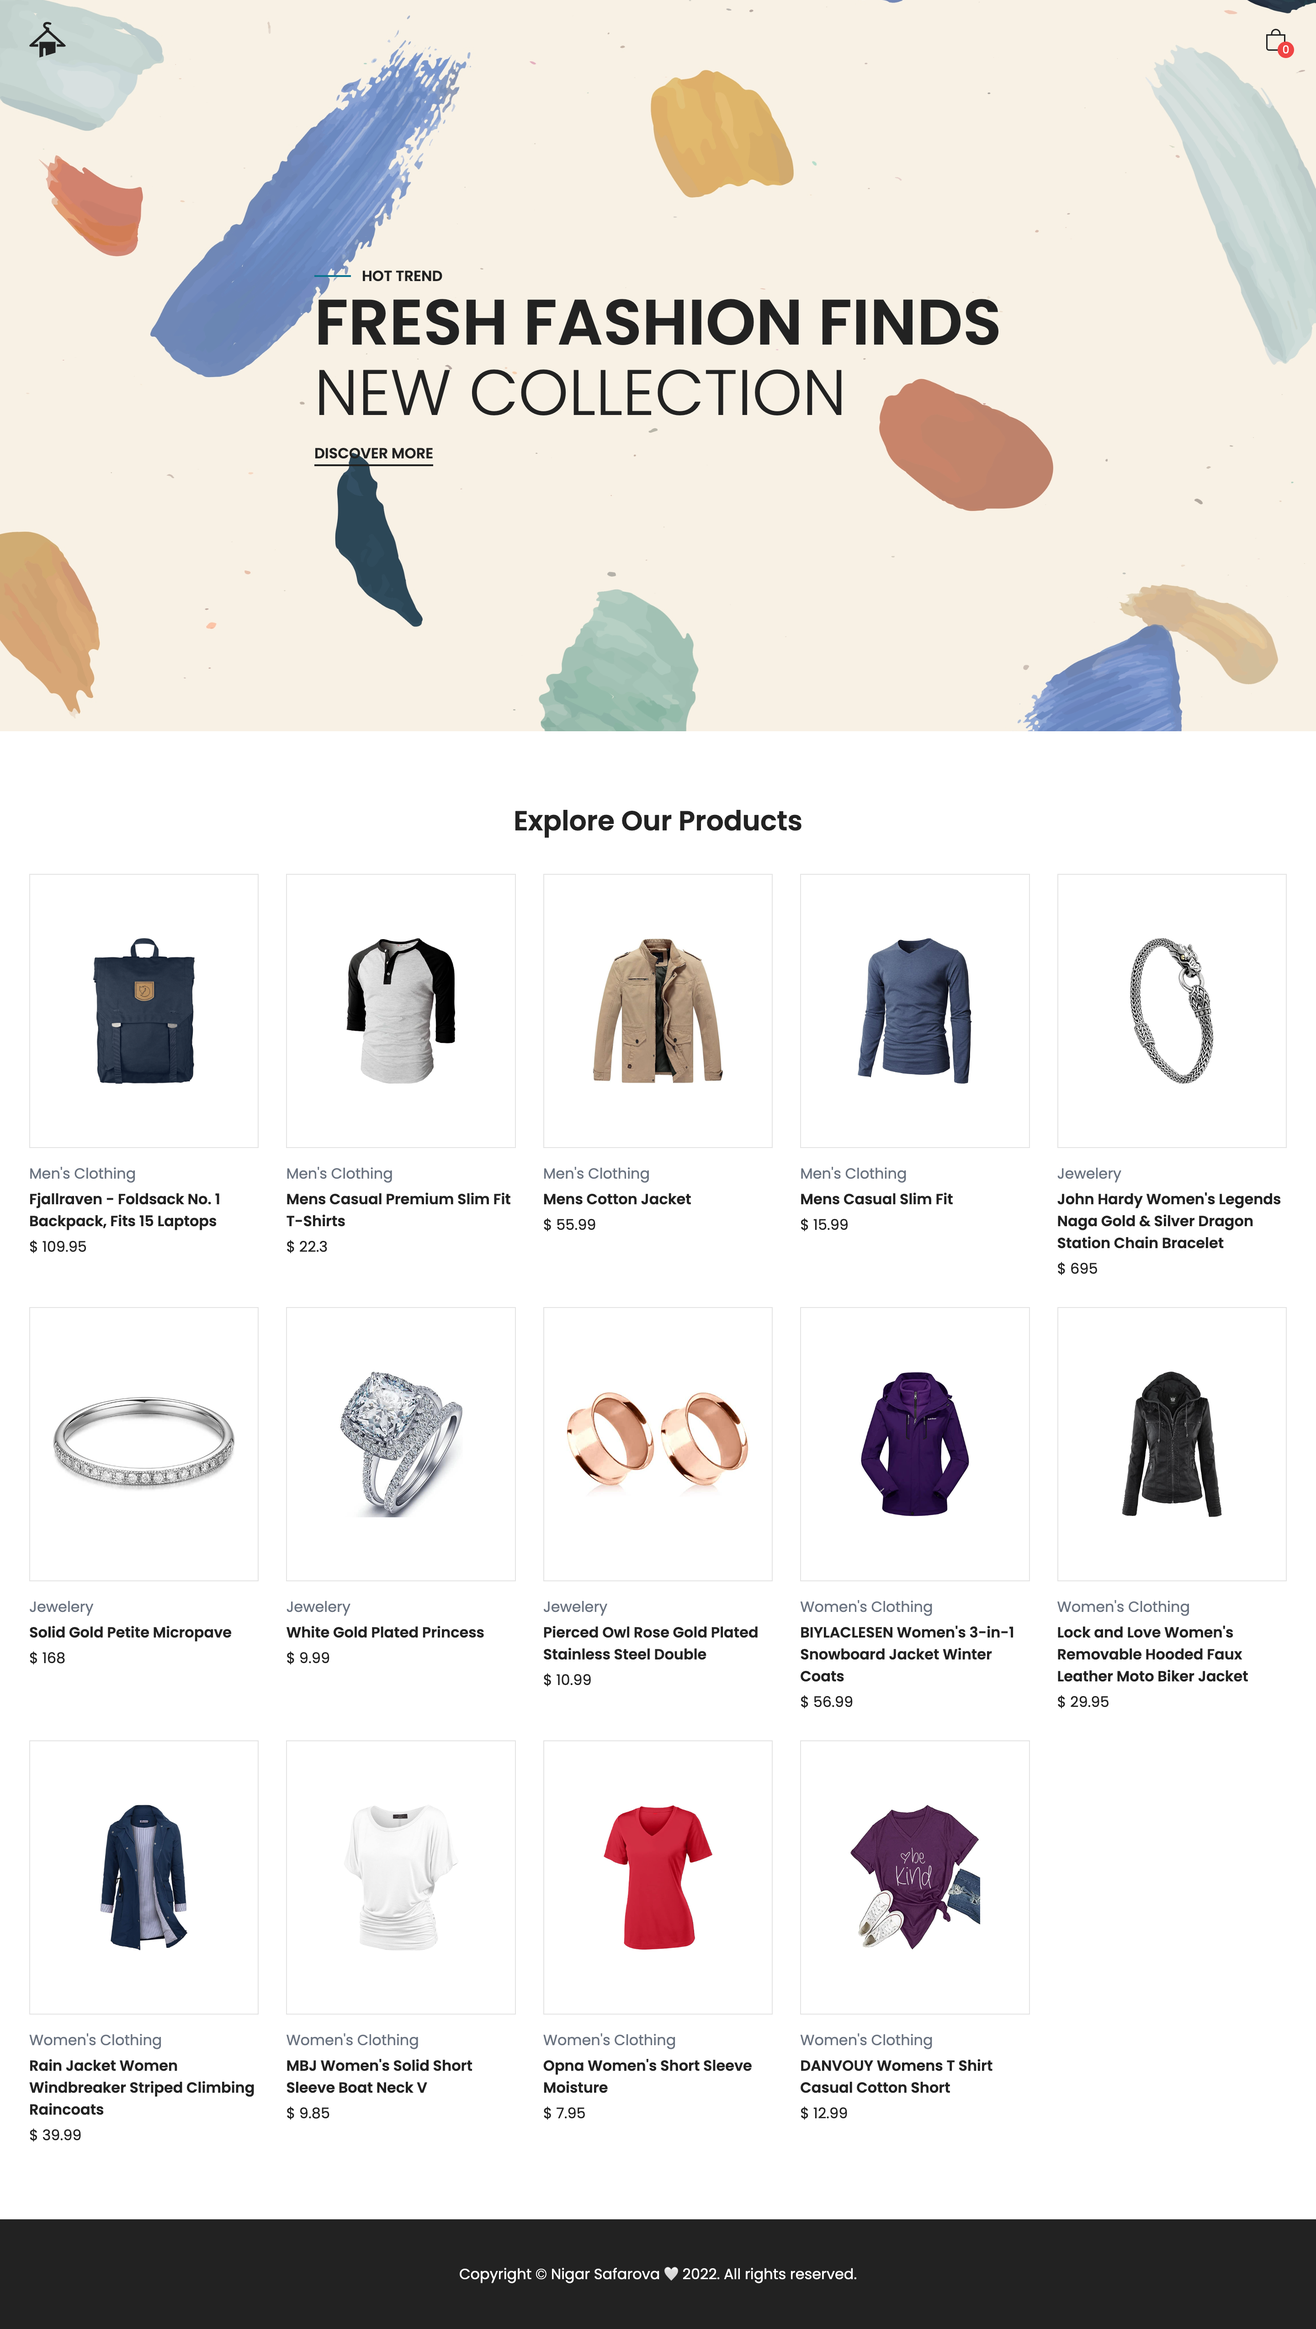
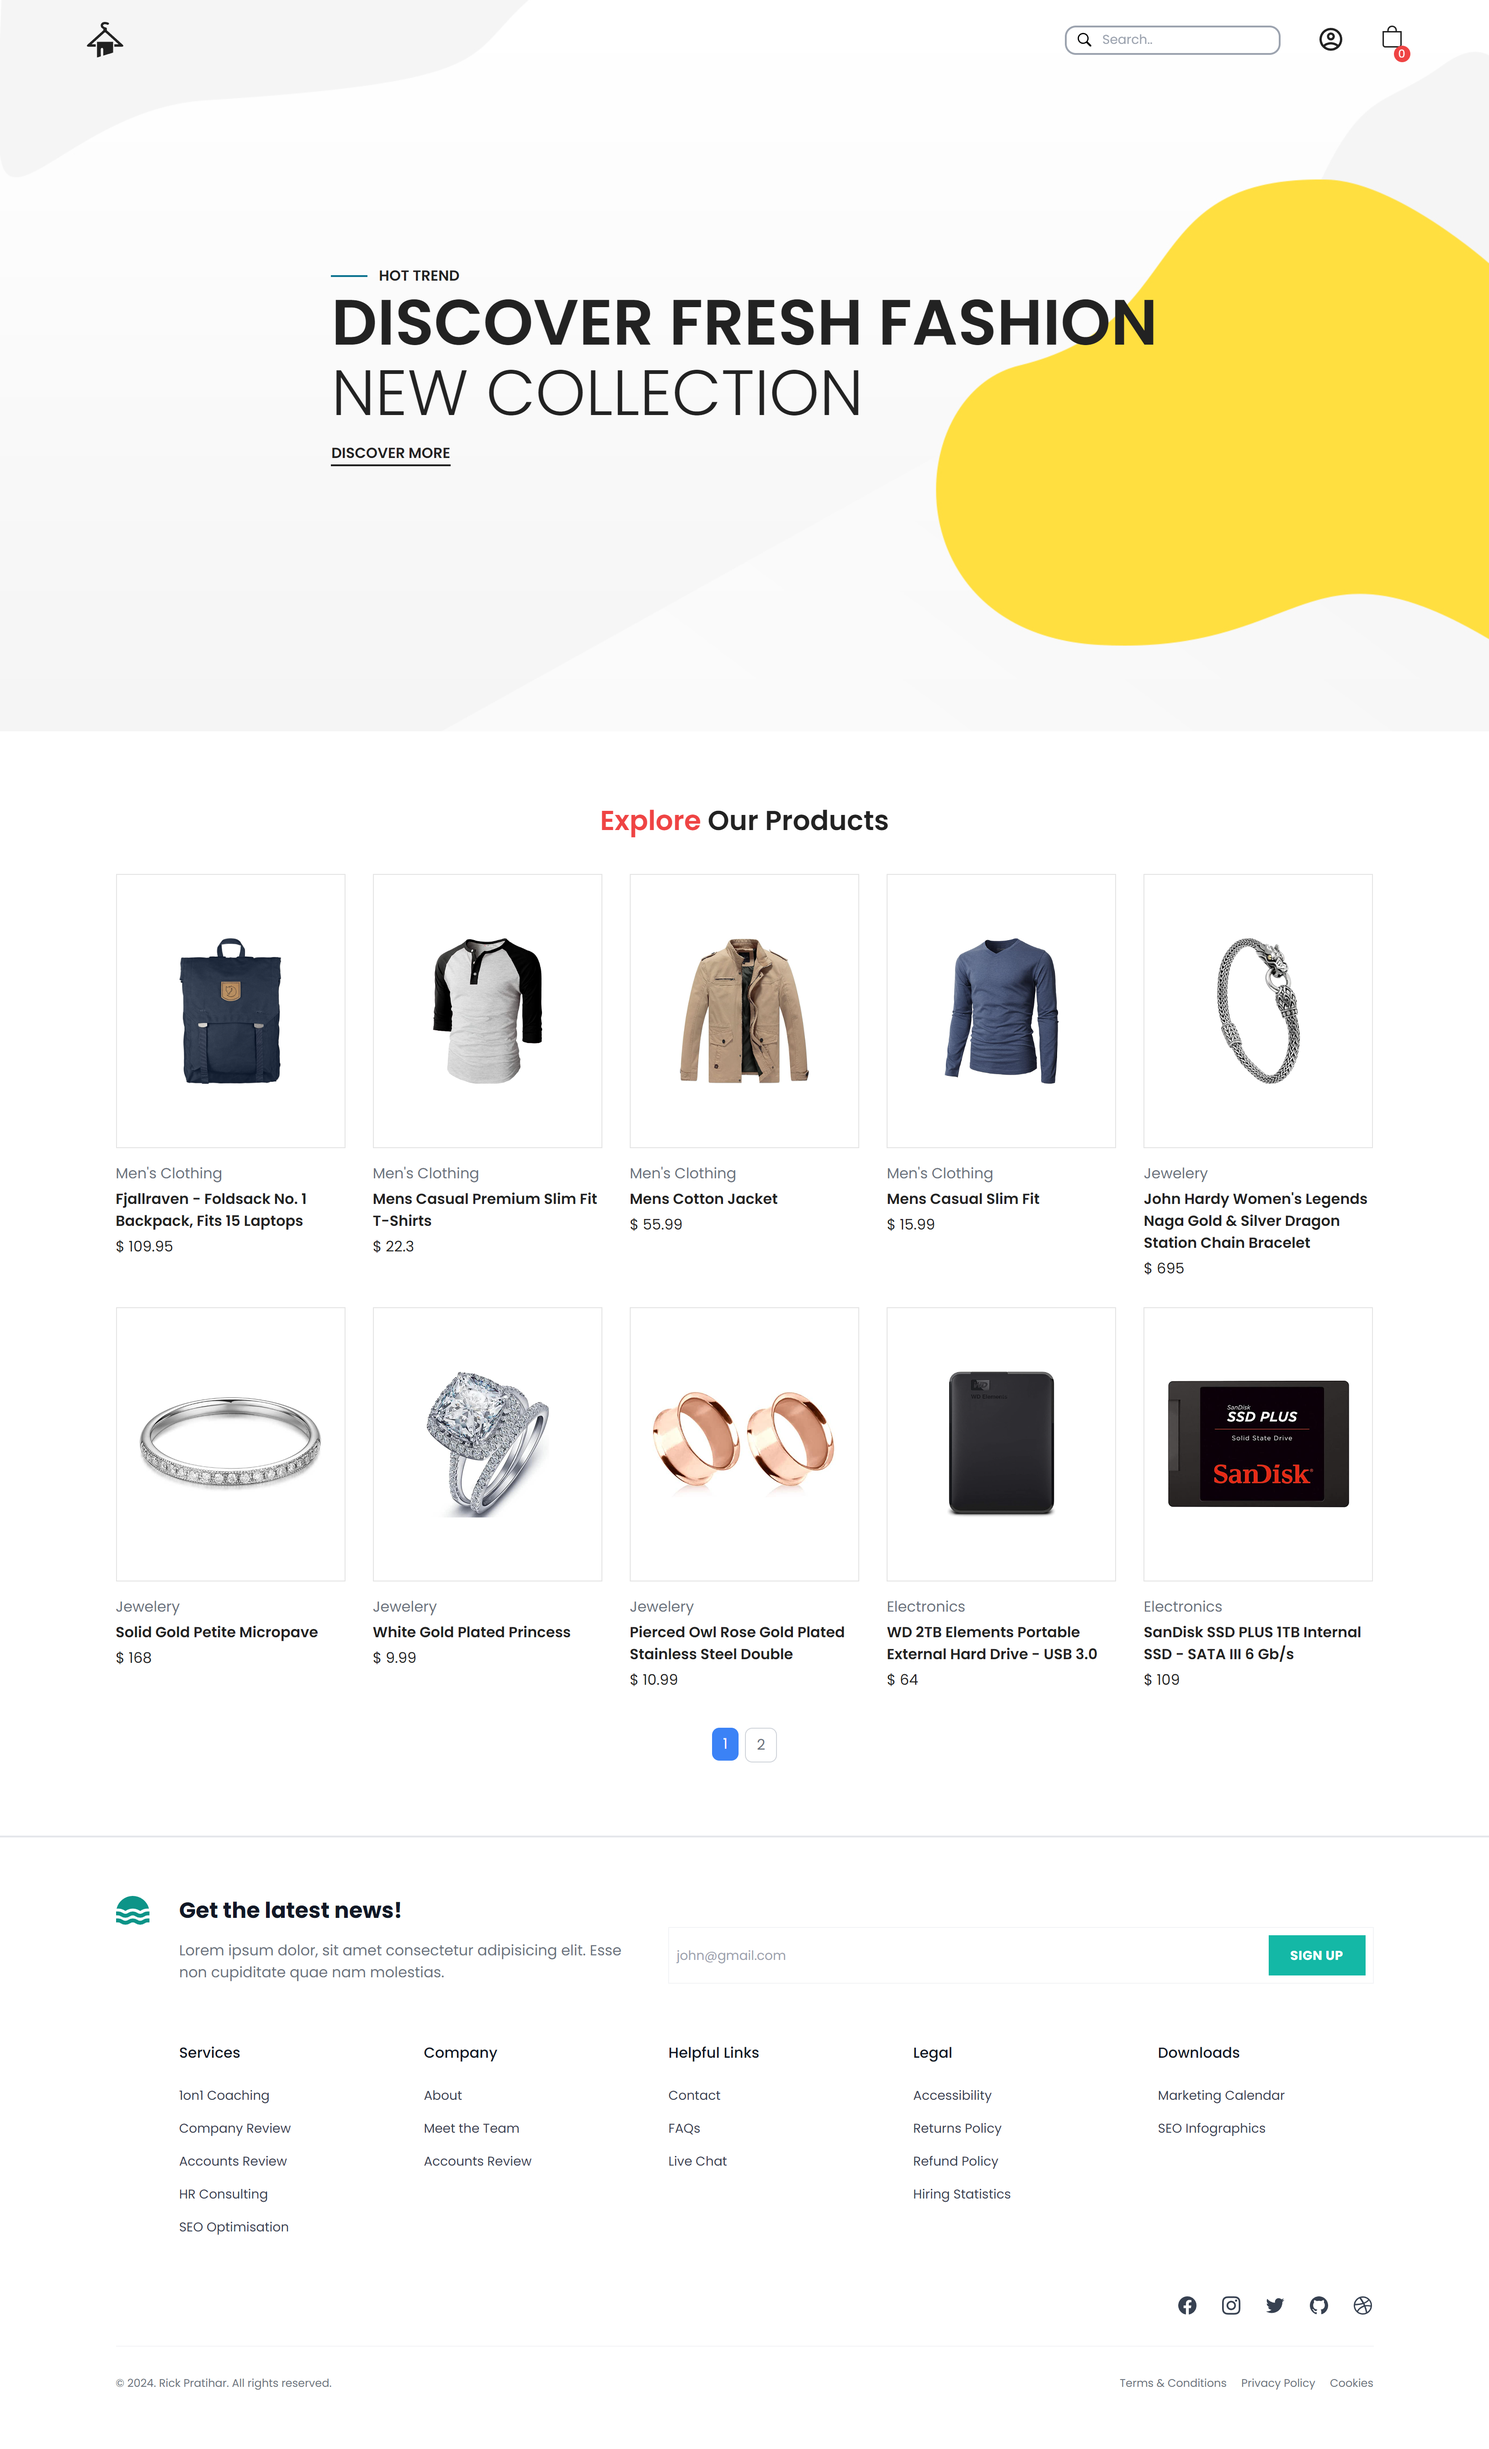
edit hero section and Readme

diff --git a/src/components/Hero.js b/src/components/Hero.js
@@ -1,6 +1,5 @@
 import React from "react";
 
-
 import { Link } from "react-router-dom";
 
 const Hero = () => {
@@ -12,7 +11,7 @@ const Hero = () => {
           <div className="font-semibold flex items-center uppercase">
             <div className="w-10 h-[2px] mr-3 bg-cyan-700"></div>Hot Trend
           </div>
-          <h1 className="uppercase text-[55px] md:text-[70px] leading-[1.1] font-semibold mb-4">Fresh Fashion Finds<br />
+          <h1 className="uppercase text-[55px] md:text-[70px] leading-[1.1] font-semibold mb-4">Discover Fresh Fashion<br />
           <span className="font-light">new collection</span></h1>
           <Link to={'/'} className='self-start uppercase font-semibold border-b-2 border-primary'>Discover More</Link>
         </div>

diff --git a/tailwind.config.js b/tailwind.config.js
@@ -22,7 +22,7 @@ module.exports = {
         secondary: '#F5E6E0',
       },
       backgroundImage: {
-        hero: "url('./img/bghero.jpg')",
+        hero: "url('./img/06.jpg')",
       },
     },
   },

diff --git a/README.md b/README.md
@@ -12,7 +12,7 @@ This is a fully responsive e-commerce shopping website project built using React
 
 ## Demo
 
-You can see a live demo of this project [here](https://ecommerce-shop-react-app.vercel.app/).
+You can see a live demo of this project [here](https://ecommerce-job-assignment.vercel.app/).
 
 ## Features
 
@@ -45,4 +45,4 @@ Below are some screenshots of the website.
 
 
 Thank you! 🤍
-– Nigar Safarova
+– Rick Pratihar
